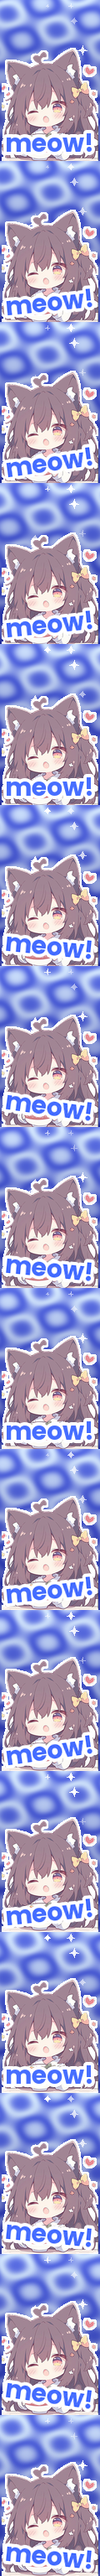
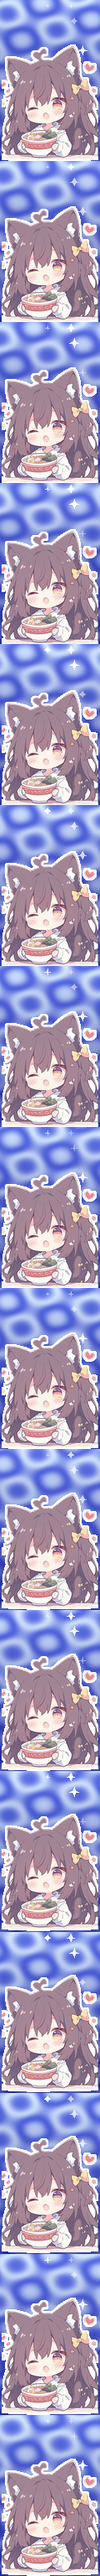
Catgirl meow cape: whole cape matches the art, pick what the catgirl says (meow!, nya~, mrrp?…)
Claude-Session: https://claude.ai/code/session_013umZhL98Ap3M2kZA88thck

diff --git a/src/renderer/cosmetics.js b/src/renderer/cosmetics.js
@@ -19,7 +19,7 @@ const COS_DEFAULTS = {
   halo: { on: false, color: '#ffd34d' },
   horns: { on: false, color: '#5a1a1a' },
   pet: { on: false, color: '#ffb3d9' },
-  cape: { on: false, color: '#ff7eb6', trim: '#ffffff', style: 'paw' },
+  cape: { on: false, color: '#ff7eb6', trim: '#ffffff', style: 'paw', line: 'cycle' },
 };
 const WING_DEFAULT = { angel: '#ffffff', demon: '#8b1a1a' };
 const FUR_PRESETS = ['#3b2a2a', '#1b1b1f', '#f5f0e6', '#c98a4b', '#f2c879', '#9a9aa3', '#ff7eb6', '#b48cff'];
@@ -194,7 +194,7 @@ const rz = (a) => [[Math.cos(a), -Math.sin(a), 0], [Math.sin(a), Math.cos(a), 0]
 // Collects coloured faces in model space.
 class Faces {
   constructor() { this.list = []; this.p = new Pose(); this.bend = null; }
-  face(color, pts, glow = false) { this.list.push({ color, pts: pts.map((q) => this.p.apply(this.bend ? this.bend(q) : q)), glow }); }
+  face(color, pts, glow = false) { this.list.push({ color, layer: this.layer || 0, pts: pts.map((q) => this.p.apply(this.bend ? this.bend(q) : q)), glow }); }
   boxY(color, x0, y0, z0, x1, y1, z1, n) { for (let i = 0; i < n; i++) this.box(color, x0, y0 + ((y1 - y0) * i) / n, z0, x1, y0 + ((y1 - y0) * (i + 1)) / n, z1); }
   box(color, x0, y0, z0, x1, y1, z1, glow) {
     const c = (x, y, z) => [x, y, z];
@@ -325,22 +325,26 @@ function capeFaces(F, it, t) {
   const saved = F.p.copy();
   F.p.translate(0, 0, 2.1).rotate(rx(capeSwing(t)));
   F.bend = makeBend(0.25, t);
-  F.boxY(it.color, -5, 0, 0, 5, 16, 1, CAPE_SLICES);
+  const meow = !(it.custom && cos.capeSheet) && it.style === 'catmeow';
+  F.boxY(meow ? MEOW_EDGE : it.color, -5, 0, 0, 5, 16, 1, CAPE_SLICES);
   const sheet = it.custom && cos.capeSheet ? { img: cos.capeSheet, fw: CAPE_W, fh: CAPE_H, frames: it.custom.frames, delay: it.custom.delay }
     : it.style === 'catmeow' && MEOW_SHEET.img ? MEOW_SHEET : null;
   if (sheet) {
     for (let i = 0; i < CAPE_SLICES; i++) {
       const ya = (16 * i) / CAPE_SLICES, yb = (16 * (i + 1)) / CAPE_SLICES;
-      F.list.push({ pic: true, sheet, v0: i / CAPE_SLICES, v1: (i + 1) / CAPE_SLICES, color: it.color, pts: [[5, ya, 1.02], [-5, ya, 1.02], [-5, yb, 1.02], [5, yb, 1.02]].map((q) => F.p.apply(F.bend(q))) });
+      F.list.push({ pic: true, layer: 1, sheet, v0: i / CAPE_SLICES, v1: (i + 1) / CAPE_SLICES, color: it.color, pts: [[5, ya, 1.02], [-5, ya, 1.02], [-5, yb, 1.02], [5, yb, 1.02]].map((q) => F.p.apply(F.bend(q))) });
     }
+    if (meow) { const line = capeLine(it.line); F.layer = 2; if (line) capeTextFaces(F, line, t); F.layer = 0; }
     F.bend = null;
     F.p = saved;
     return;
   }
+  F.layer = 2;
   F.boxY(it.trim, -5, 0, 1, -4.2, 16, 1.1, CAPE_SLICES);
   F.boxY(it.trim, 4.2, 0, 1, 5, 16, 1.1, CAPE_SLICES);
   F.box(it.trim, -5, 15.2, 1, 5, 16, 1.1);
   if (EMBLEMS[it.style]) emblemBoxes(F, it.trim, EMBLEMS[it.style], Math.min(0.75, 7.6 / EMBLEMS[it.style][0].length), 4.5, 1);
+  F.layer = 0;
   F.bend = null;
   F.p = saved;
 }
@@ -360,7 +364,7 @@ function drawFaces(ctx, faces, view, behind) {
   const depth = (f) => f.pts.reduce((a, p) => a + (view === 'side' ? p[0] : view === 'back' ? -p[2] : p[2]), 0) / f.pts.length; // bigger = further away
   // Sort by each face's farthest corner so small details (trim, emblems) land on top of the big face they sit on.
   const far = (f) => Math.max(...f.pts.map((p) => (view === 'side' ? p[0] : view === 'back' ? -p[2] : p[2])));
-  const list = faces.filter((f) => (depth(f) > (view === 'side' ? 0.5 : 1.5)) === behind).sort((a, b) => far(b) - far(a));
+  const list = faces.filter((f) => (depth(f) > (view === 'side' ? 0.5 : 1.5)) === behind).sort((a, b) => (far(b) - (b.layer || 0) * 4) - (far(a) - (a.layer || 0) * 4)); // things stuck on the cape go on top
   for (const f of list) {
     if (f.pic) { drawCapePicture(ctx, view, f); continue; }
     const [a, b, c] = f.pts;
@@ -372,6 +376,24 @@ function drawFaces(ctx, faces, view, behind) {
 }
 
 // Your cape picture, stretched onto the back of the cape (only visible from behind).
+const CAPE_LINES = ["meow!", "nya~", "nyaa~!", "mrrp?", "purr~", "mew!", ":3", "uwu"];
+
+const MEOW_EDGE = '#5b6fd6'; // the art's blue, so the whole cape matches
+function capeLine(chosen) {
+  if (chosen === 'none') return '';
+  return CAPE_LINES.includes(chosen) ? chosen : CAPE_LINES[Math.floor(Date.now() / 2500) % CAPE_LINES.length];
+}
+// The catgirl's line near the bottom of the cape (from cape-lines.png), bouncing and wiggling. Same as the mod.
+const LINES_SHEET = { img: null, fw: 256, fh: 80 * 8, frames: 1, delay: 1000 };
+(() => { const i = new Image(); i.onload = () => { LINES_SHEET.img = i; }; i.src = 'assets/cape-lines.png'; })();
+function capeTextFaces(F, line, t) {
+  const row = Math.max(0, CAPE_LINES.indexOf(line));
+  const w = 9.4, h = (w * 80) / 256, cy = 13.6 - Math.abs(Math.sin(t * 0.35)) * 0.5;
+  const a = Math.sin(t * 0.18) * 0.12, c = Math.cos(a), sn = Math.sin(a);
+  const pts = [[w / 2, -h / 2], [-w / 2, -h / 2], [-w / 2, h / 2], [w / 2, h / 2]].map(([x, y]) => [x * c - y * sn, cy + x * sn + y * c, 1.12]);
+  F.list.push({ pic: true, layer: 2, sheet: LINES_SHEET, v0: row / 8, v1: (row + 1) / 8, pts: pts.map((q) => F.p.apply(F.bend ? F.bend(q) : q)) });
+}
+
 // The built-in animated "Catgirl meow" cape (same picture the game uses).
 const MEOW_SHEET = { img: null, fw: 120, fh: 192, frames: 16, delay: 90 };
 (() => { const i = new Image(); i.onload = () => { MEOW_SHEET.img = i; }; i.src = 'assets/cape-meow.png'; })();
@@ -385,7 +407,7 @@ function drawCapePicture(ctx, view, f) {
   ctx.save();
   ctx.setTransform((p1[0] - p0[0]) / sh0.fw, (p1[1] - p0[1]) / sh0.fw, (p3[0] - p0[0]) / sh, (p3[1] - p0[1]) / sh, p0[0], p0[1]);
   ctx.imageSmoothingEnabled = true;
-  ctx.drawImage(sh0.img, 0, sy, sh0.fw, sh, 0, 0, sh0.fw, sh + 0.35); // a hair of overlap hides seams
+  ctx.drawImage(sh0.img, 0, sy, sh0.fw, sh, 0, 0, sh0.fw, sh + 1); // a little overlap hides seams
   ctx.restore();
 }
 
@@ -511,6 +533,7 @@ function renderCosItems() {
           <div class="presets-dots">${presetsFor(d.id, key).map((c) => `<button style="background:${c}" data-preset="${d.id}.${key}" data-c="${c}" title="${c}"></button>`).join('')}</div></div>`).join('')}
 
       </div>
+        ${d.id === 'cape' && v.style === 'catmeow' && !v.custom ? `<div class="cos-lines"><span>Catgirl says</span><div class="seg wrap">${[['cycle', 'All of them'], ...CAPE_LINES.map((l) => [l, l]), ['none', 'Nothing']].map(([k, l]) => `<button data-line="${esc(k)}" class="${(v.line || 'cycle') === k ? 'on' : ''}">${esc(l)}</button>`).join('')}</div></div>` : ''}
         ${d.id === 'cape' ? `<div class="cos-pic">
           <button class="ghost small" data-act="cape-pick">🖼 ${v.custom ? 'Change picture' : 'Use my own picture or GIF…'}</button>
           ${v.custom ? `<button class="ghost small" data-act="cape-clear">Remove picture</button>` : ''}
@@ -535,6 +558,8 @@ $('#cosItems').addEventListener('click', (e) => {
   const act = e.target.closest('[data-act]');
   if (act?.dataset.act === 'cape-pick') pickCapePicture();
   if (act?.dataset.act === 'cape-clear') { delete cos.items.cape.custom; cos.capeSheet = null; setCos('cape', 'on', cos.items.cape.on); renderCosItems(); }
+  const ln = e.target.closest('[data-line]');
+  if (ln) { setCos('cape', 'line', ln.dataset.line); $$('[data-line]').forEach((b) => b.classList.toggle('on', b === ln)); }
   const st = e.target.closest('[data-style]');
   if (st) {
     const item = st.dataset.style, old = cos.items[item].style;
@@ -542,6 +567,7 @@ $('#cosItems').addEventListener('click', (e) => {
     // Swap to the new style's usual colour if you hadn't picked your own.
     if (item === 'wings' && cos.items.wings.color === WING_DEFAULT[old]) setCos('wings', 'color', WING_DEFAULT[st.dataset.v]);
     $$(`[data-style="${item}"]`).forEach((b) => b.classList.toggle('on', b === st));
+    if (item === 'cape') renderCosItems(); // show or hide the catgirl's lines
   }
 });
 

diff --git a/test/cosmetics.test.js b/test/cosmetics.test.js
@@ -17,11 +17,13 @@ const cosmetics = require('../src/main/cosmetics');
   assert.deepStrictEqual(n, {
     ears: { on: true, color: '#abcdef', inner: '#ffb3d9' }, tail: { on: true, color: '#3b2a2a' }, bow: { on: false, color: '#ff7eb6' },
     wings: { on: false, color: '#ffffff', style: 'angel' }, halo: { on: false, color: '#ffd34d' }, horns: { on: false, color: '#5a1a1a' }, pet: { on: false, color: '#ffb3d9' },
-    cape: { on: false, color: '#ff7eb6', trim: '#ffffff', style: 'paw' },
+    cape: { on: false, color: '#ff7eb6', trim: '#ffffff', style: 'paw', line: 'cycle' },
   });
   assert.strictEqual(worker.clean({ cape: { on: true, style: 'meow' } }).cape.style, 'meow');
   assert.strictEqual(cosmetics.normalize({ cape: { style: 'catmeow' } }).cape.style, 'catmeow');
-  assert.deepStrictEqual(worker.clean({ cape: { on: true, style: 'skull', trim: '#FFD34D' } }), { cape: { on: true, color: '#ff7eb6', trim: '#ffd34d', style: 'paw' } });
+  assert.strictEqual(cosmetics.normalize({ cape: { line: 'nya~' } }).cape.line, 'nya~');
+  assert.strictEqual(worker.clean({ cape: { on: true, line: 'something rude' } }).cape.line, 'cycle', 'only preset lines');
+  assert.deepStrictEqual(worker.clean({ cape: { on: true, style: 'skull', trim: '#FFD34D' } }), { cape: { on: true, color: '#ff7eb6', trim: '#ffd34d', style: 'paw', line: 'cycle' } });
   assert.strictEqual(cosmetics.normalize({ wings: { on: true, style: 'demon', color: '#8B1A1A' } }).wings.style, 'demon');
   assert.strictEqual(cosmetics.normalize({ wings: { on: true, style: 'dragon' } }).wings.style, 'angel');
   assert.deepStrictEqual(worker.clean({ wings: { on: true, style: 'demon' }, pet: { on: true } }), { wings: { on: true, color: '#ffffff', style: 'demon' }, pet: { on: true, color: '#ffb3d9' } });

diff --git a/cosmetics-worker/worker.js b/cosmetics-worker/worker.js
@@ -18,6 +18,7 @@ const DEFAULT_COLOR = { ears: '#3b2a2a', tail: '#3b2a2a', bow: '#ff7eb6', wings:
 const ITEMS = Object.keys(DEFAULT_COLOR);
 const WING_STYLES = ['angel', 'demon'];
 const CAPE_STYLES = ['plain', 'paw', 'heart', 'meow', 'catmeow'];
+const CAPE_LINES = [...["meow!", "nya~", "nyaa~!", "mrrp?", "purr~", "mew!", ":3", "uwu"], 'cycle', 'none'];
 const MAX_UUIDS = 60;
 const NONCE_TTL_MS = 2 * 60 * 1000;
 // Custom cape pictures: a PNG "film strip" of frames stacked top to bottom, each 60×96 (cape shape).
@@ -57,7 +58,7 @@ export function clean(input) {
     out[k] = { on: !!v.on, color: color(v.color, DEFAULT_COLOR[k]) };
     if (k === 'ears') out[k].inner = color(v.inner, '#ffb3d9');
     if (k === 'wings') out[k].style = WING_STYLES.includes(v.style) ? v.style : 'angel';
-    if (k === 'cape') { out[k].trim = color(v.trim, '#ffffff'); out[k].style = CAPE_STYLES.includes(v.style) ? v.style : 'paw'; }
+    if (k === 'cape') { out[k].trim = color(v.trim, '#ffffff'); out[k].style = CAPE_STYLES.includes(v.style) ? v.style : 'paw'; out[k].line = CAPE_LINES.includes(v.line) ? v.line : 'cycle'; }
   }
   return out;
 }

diff --git a/src/main/cosmetics.js b/src/main/cosmetics.js
@@ -13,7 +13,7 @@ const DEFAULTS = {
   halo: { on: false, color: '#ffd34d' },
   horns: { on: false, color: '#5a1a1a' },
   pet: { on: false, color: '#ffb3d9' },
-  cape: { on: false, color: '#ff7eb6', trim: '#ffffff', style: 'paw' },
+  cape: { on: false, color: '#ff7eb6', trim: '#ffffff', style: 'paw', line: 'cycle' },
 };
 const ITEMS = Object.keys(DEFAULTS);
 const UA = 'CatgirlLauncher (+https://catgirlclient.lol)';
@@ -30,6 +30,7 @@ function normalize(input) {
     if (k === 'cape') {
       out[k].trim = hexColor(v.trim, '#ffffff');
       out[k].style = ['plain', 'paw', 'heart', 'meow', 'catmeow'].includes(v.style) ? v.style : 'paw';
+      out[k].line = [...["meow!", "nya~", "nyaa~!", "mrrp?", "purr~", "mew!", ":3", "uwu"], 'cycle', 'none'].includes(v.line) ? v.line : 'cycle';
       const c = v.custom;
       if (c && /^[0-9a-f]{64}$/.test(c.sha || '')) out[k].custom = { sha: c.sha, frames: clampInt(c.frames, 1, MAX_FRAMES, 1), delay: clampInt(c.delay, 20, 2000, 100) };
     }

diff --git a/src/renderer/styles.css b/src/renderer/styles.css
@@ -457,3 +457,7 @@ body.nav-top.nav-icons .sidebar, body.nav-bottom.nav-icons .sidebar { width: aut
 .cos-view button { padding: 3px 12px; font-size: 11px; letter-spacing: .08em; }
 .cos-pic { display: flex; flex-wrap: wrap; align-items: center; gap: 8px; margin-top: 2px; }
 .cos-pic small { flex-basis: 100%; }
+.cos-lines { display: flex; flex-direction: column; gap: 6px; }
+.cos-lines > span { font-size: 13px; color: var(--muted); }
+.seg.wrap { flex-wrap: wrap; }
+.seg.wrap button { flex: 0 0 auto; padding: 5px 10px; font-size: 13px; }

diff --git a/mod/src/main/java/net/catgirl/client/CosmeticsLayer.java b/mod/src/main/java/net/catgirl/client/CosmeticsLayer.java
@@ -29,6 +29,10 @@ public class CosmeticsLayer extends RenderLayer<AvatarRenderState, PlayerModel> 
     private static final int FULL_BRIGHT = 0xF000F0;
     private static final Identifier MEOW_CAPE = Identifier.fromNamespaceAndPath("catgirl", "textures/cape/meow.png");
     private static final int MEOW_FRAMES = 16, MEOW_DELAY = 90;
+    private static final int MEOW_EDGE = 0xFF5B6FD6; // the art's blue, so the whole cape matches
+    private static final Identifier LINES_TEX = Identifier.fromNamespaceAndPath("catgirl", "textures/cape/lines.png"); // one row per line
+    static final String[] CAPE_LINES = {"meow!", "nya~", "nyaa~!", "mrrp?", "purr~", "mew!", ":3", "uwu"};
+
 
     public CosmeticsLayer(RenderLayerParent<AvatarRenderState, PlayerModel> parent) {
         super(parent);
@@ -63,16 +67,20 @@ public class CosmeticsLayer extends RenderLayer<AvatarRenderState, PlayerModel> 
             model.body.translateAndRotate(poses);
             Cosmetics.CapePicture pic = look.capePicture();
             Identifier tex = pic == null ? null : CapeTextures.get(pic.sha(), pic.file(), Cosmetics.api());
-            if (tex == null && look.capeStyle() == 4) { // the built-in animated "Catgirl meow" cape
+            boolean meow = tex == null && look.capeStyle() == 4;
+            if (meow) { // the built-in animated "Catgirl meow" cape
                 tex = MEOW_CAPE;
                 pic = new Cosmetics.CapePicture("", MEOW_FRAMES, MEOW_DELAY, "");
             }
             boolean picture = tex != null;
-            out.submitCustomGeometry(poses, TYPE, (pose, vc) -> cape(new Mesh(pose, vc, light, overlay), look.cape().color(), look.capeTrim(), look.capeStyle(), swingDeg, sideDeg, picture, bend, ct));
+            int edge = meow ? MEOW_EDGE : look.cape().color();
+            String line = meow ? capeLine(look.capeLine(), seed) : null;
+            out.submitCustomGeometry(poses, TYPE, (pose, vc) -> cape(new Mesh(pose, vc, light, overlay), edge, look.capeTrim(), look.capeStyle(), swingDeg, sideDeg, picture, bend, ct));
             if (picture) {
                 int frames = pic.frames();
                 int frame = (int) ((System.currentTimeMillis() / pic.delay()) % frames);
-                out.submitCustomGeometry(poses, RenderTypes.entityCutoutNoCull(tex), (pose, vc) -> capePicture(new Mesh(pose, vc, light, overlay), swingDeg, sideDeg, frame, frames, bend, ct));
+                out.submitCustomGeometry(poses, RenderTypes.entityCutoutNoCull(tex), (pose, vc) -> capePicture(new Mesh(pose, vc, light, overlay), swingDeg, sideDeg, frame, frames, bend, ct, meow ? 0xFFFFFFFF : 0xFFE0E0E0));
+                if (line != null && !line.isEmpty()) out.submitCustomGeometry(poses, RenderTypes.entityCutoutNoCull(LINES_TEX), (pose, vc) -> capeText(new Mesh(pose, vc, light, overlay), line, swingDeg, sideDeg, bend, ct));
             }
             poses.popPose();
         }
@@ -283,7 +291,7 @@ public class CosmeticsLayer extends RenderLayer<AvatarRenderState, PlayerModel> 
     }
 
     /** Your own picture or GIF on the back of the cape (and, a little darker, on the inside). */
-    private static void capePicture(Mesh m, float swingDeg, float sideDeg, int frame, int frames, float bend, float t) {
+    private static void capePicture(Mesh m, float swingDeg, float sideDeg, int frame, int frames, float bend, float t, int inside) {
         capePose(m, swingDeg, sideDeg, bend, t);
         float v0 = frame / (float) frames, v1 = (frame + 1) / (float) frames;
         // Cut into slices so the picture bends with the cloth. Seen from behind, the picture's
@@ -292,7 +300,7 @@ public class CosmeticsLayer extends RenderLayer<AvatarRenderState, PlayerModel> 
             float ya = 16F * i / CAPE_SLICES, yb = 16F * (i + 1) / CAPE_SLICES;
             float va = v0 + (v1 - v0) * i / CAPE_SLICES, vb = v0 + (v1 - v0) * (i + 1) / CAPE_SLICES;
             m.texQuad(0xFFFFFFFF, new float[]{5F, ya, 1.02F}, new float[]{-5F, ya, 1.02F}, new float[]{-5F, yb, 1.02F}, new float[]{5F, yb, 1.02F}, 0F, va, 1F, vb, 0F, ya, 0F);
-            m.texQuad(0xFFB8B8B8, new float[]{-4.8F, ya, -0.1F}, new float[]{4.8F, ya, -0.1F}, new float[]{4.8F, yb, -0.1F}, new float[]{-4.8F, yb, -0.1F}, 0F, va, 1F, vb, 0F, ya, 1F);
+            m.texQuad(inside, new float[]{-4.8F, ya, -0.1F}, new float[]{4.8F, ya, -0.1F}, new float[]{4.8F, yb, -0.1F}, new float[]{-4.8F, yb, -0.1F}, 0F, va, 1F, vb, 0F, ya, 1F);
         }
     }
 
@@ -316,6 +324,32 @@ public class CosmeticsLayer extends RenderLayer<AvatarRenderState, PlayerModel> 
                 i = j;
             }
         }
+    }
+
+    /** Which line the catgirl says right now ("cycle" changes every 2.5 seconds). */
+    static String capeLine(String chosen, int seed) {
+        if ("none".equals(chosen)) return "";
+        for (String l : CAPE_LINES) if (l.equals(chosen)) return l;
+        return CAPE_LINES[(int) (((System.currentTimeMillis() / 2500) + seed) % CAPE_LINES.length)];
+    }
+
+    /** The catgirl's line near the bottom of the cape (from lines.png), bouncing and wiggling. */
+    private static void capeText(Mesh m, String line, float swingDeg, float sideDeg, float bend, float t) {
+        int row = 0;
+        for (int i = 0; i < CAPE_LINES.length; i++) if (CAPE_LINES[i].equals(line)) row = i;
+        capePose(m, swingDeg, sideDeg, bend, t);
+        float w = 9.4F, h = w * 80F / 256F;
+        float cx = 0F, cy = 13.6F - Math.abs((float) Math.sin(t * 0.35F)) * 0.5F;
+        float a = (float) Math.sin(t * 0.18F) * 0.12F, c = (float) Math.cos(a), sn = (float) Math.sin(a);
+        // Seen from behind, the left of the text is on the player's left (+x).
+        float[][] corners = {{w / 2, -h / 2}, {-w / 2, -h / 2}, {-w / 2, h / 2}, {w / 2, h / 2}};
+        float[][] v = new float[4][];
+        for (int i = 0; i < 4; i++) {
+            float x = corners[i][0], y = corners[i][1];
+            v[i] = new float[]{cx + x * c - y * sn, cy + x * sn + y * c, 1.12F};
+        }
+        float v0 = row / (float) CAPE_LINES.length, v1 = (row + 1) / (float) CAPE_LINES.length;
+        m.texQuad(0xFFFFFFFF, v[0], v[1], v[2], v[3], 0F, v0, 1F, v1, 0F, cy, 0F);
     }
 
     /** f < 1 darkens, f > 1 mixes towards white. */

diff --git a/mod/src/main/java/net/catgirl/client/Cosmetics.java b/mod/src/main/java/net/catgirl/client/Cosmetics.java
@@ -31,7 +31,7 @@ import java.util.concurrent.atomic.AtomicBoolean;
 public final class Cosmetics {
     public record Item(boolean on, int color) {}
     public record Look(Item ears, int earsInner, Item tail, Item bow, Item wings, boolean demonWings, Item halo, Item horns, Item pet,
-                       Item cape, int capeTrim, int capeStyle, CapePicture capePicture) {
+                       Item cape, int capeTrim, int capeStyle, CapePicture capePicture, String capeLine) {
         boolean any() { return ears.on || tail.on || bow.on || wings.on || halo.on || horns.on || pet.on || cape.on; }
     }
     /** A custom cape picture: sha256 of the PNG, how many frames, ms per frame, and (for you) the local file. */
@@ -83,7 +83,7 @@ public final class Cosmetics {
         if (c == null || c.look == null) return null;
         if (!showOthersPictures && c.look.capePicture() != null) {
             Look l = c.look;
-            return new Look(l.ears(), l.earsInner(), l.tail(), l.bow(), l.wings(), l.demonWings(), l.halo(), l.horns(), l.pet(), l.cape(), l.capeTrim(), l.capeStyle(), null);
+            return new Look(l.ears(), l.earsInner(), l.tail(), l.bow(), l.wings(), l.demonWings(), l.halo(), l.horns(), l.pet(), l.cape(), l.capeTrim(), l.capeStyle(), null, l.capeLine());
         }
         return c.look;
     }
@@ -154,7 +154,7 @@ public final class Cosmetics {
             item(o, "wings", 0xffffff), wings != null && "demon".equals(str(wings, "style")),
             item(o, "halo", 0xffd34d), item(o, "horns", 0x5a1a1a), item(o, "pet", 0xffb3d9),
             item(o, "cape", 0xff7eb6), color(cape, "trim", 0xffffff), cape == null ? 1 : switch (str(cape, "style")) { case "plain" -> 0; case "heart" -> 2; case "meow" -> 3; case "catmeow" -> 4; default -> 1; },
-            picture(cape));
+            picture(cape), cape == null ? "cycle" : str(cape, "line"));
     }
 
     private static CapePicture picture(JsonObject cape) {
